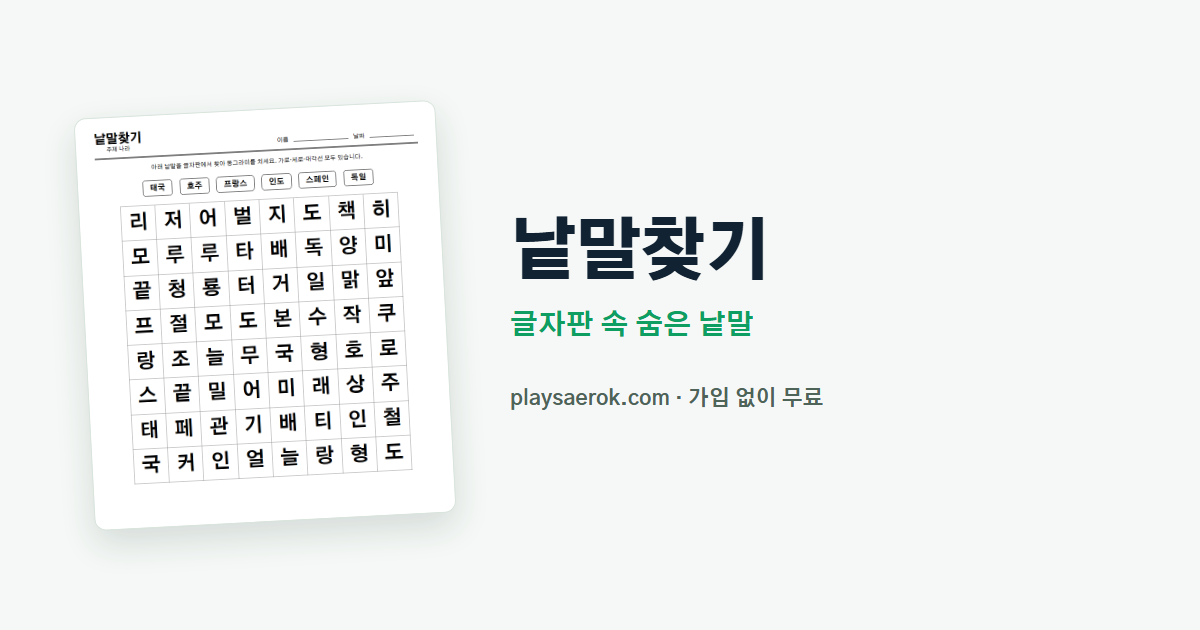
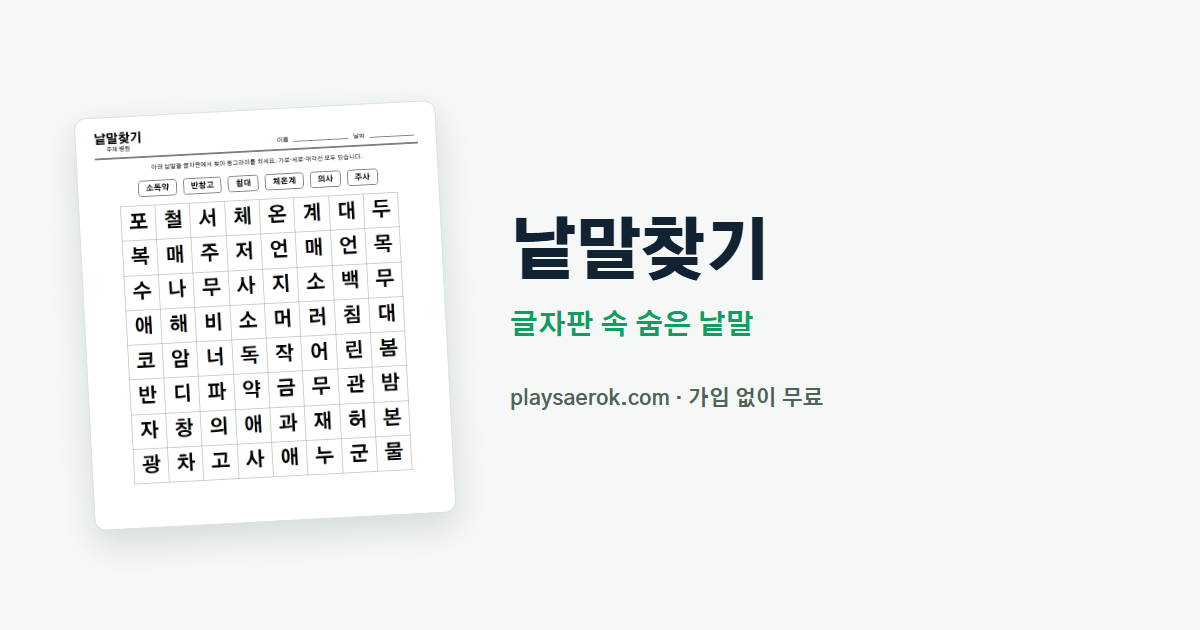
낱말찾기 주제를 12 → 30개로 (낱말 168 → 420개)
주제가 열둘뿐이라 열두 판이면 한 바퀴였다. 이제 서른 판이다.

보탠 주제 — 새 · 바다 먹거리 · 나무 · 부엌 살림 · 옷 · 탈것 ·
동네 · 학교 · 병원 · 시장 · 날씨 · 색깔 · 때 · 식구 · 나물 ·
국과 찌개 · 문방구 · 산과 강

- 주제마다 낱말 14개, 세 글자 이하를 여섯 개 넘게 두어
  1·2단계의 작은 글자판에도 들어가게 했다.
- 짧은 낱말이 긴 낱말 안에 들어 있으면(아버지/할아버지, 연필/색연필)
  긴 낱말에서 짧은 것을 찾아 버릴 수 있으므로 모두 골라내 바꿨다.
- 다섯 단계로 판을 1,000번 만들어 낱말이 다 들어가는지 확인했다 (실패 0).

Changed region(s): [[0.0925, 0.2714, 0.3392, 0.754]]

diff --git a/js/data/words.js b/js/data/words.js
@@ -13,7 +13,25 @@ window.WORD_THEMES = [
   { id: 'season', name: '절기와 명절', words: ['설날', '추석', '단오', '동지', '한식', '대보름', '입춘', '하지', '복날', '섣달', '초여름', '늦가을', '한겨울', '봄나들이'] },
   { id: 'play', name: '놀이', words: ['윷놀이', '널뛰기', '씨름', '연날리기', '제기차기', '공기놀이', '숨바꼭질', '그네뛰기', '팽이치기', '줄넘기', '딱지치기', '강강술래', '장기', '바둑'] },
   { id: 'country', name: '나라', words: ['대한민국', '일본', '중국', '미국', '프랑스', '독일', '영국', '호주', '캐나다', '이탈리아', '스페인', '인도', '태국', '베트남'] },
-  { id: 'job', name: '직업', words: ['선생님', '의사', '간호사', '농부', '어부', '요리사', '운전기사', '우체부', '경찰관', '소방관', '미용사', '목수', '화가', '가수'] }
+  { id: 'job', name: '직업', words: ['선생님', '의사', '간호사', '농부', '어부', '요리사', '운전기사', '우체부', '경찰관', '소방관', '미용사', '목수', '화가', '가수'] },
+  { id: 'bird', name: '새', words: ['참새', '까치', '제비', '백로', '원앙', '장끼', '비둘기', '부엉이', '기러기', '까마귀', '종달새', '두루미', '뻐꾸기', '딱따구리'] },
+  { id: 'sea', name: '바다 먹거리', words: ['갈치', '명태', '조기', '붕어', '잉어', '멸치', '문어', '새우', '조개', '낙지', '고등어', '오징어', '가자미', '미꾸라지'] },
+  { id: 'tree', name: '나무', words: ['소나무', '대나무', '감나무', '밤나무', '참나무', '향나무', '잣나무', '은행나무', '느티나무', '버드나무', '대추나무', '매화나무', '살구나무', '단풍나무'] },
+  { id: 'kitchen', name: '부엌 살림', words: ['냄비', '국자', '채반', '도마', '밥솥', '주걱', '접시', '대접', '절구', '가마솥', '소쿠리', '항아리', '뒤집개', '프라이팬'] },
+  { id: 'cloth', name: '옷', words: ['치마', '바지', '조끼', '외투', '장갑', '양말', '버선', '한복', '셔츠', '잠옷', '저고리', '목도리', '스웨터', '두루마기'] },
+  { id: 'ride', name: '탈것', words: ['버스', '기차', '트럭', '택시', '마차', '자전거', '자동차', '지하철', '비행기', '여객선', '경운기', '달구지', '오토바이', '케이블카'] },
+  { id: 'village', name: '동네', words: ['정자', '장터', '논밭', '다리', '우물', '우체국', '파출소', '보건소', '이발소', '목욕탕', '방앗간', '정미소', '대장간', '서낭당'] },
+  { id: 'school', name: '학교', words: ['교실', '칠판', '분필', '책상', '걸상', '교문', '필통', '공책', '연필', '운동장', '도서관', '급식실', '지우개', '종소리'] },
+  { id: 'clinic', name: '병원', words: ['의사', '주사', '붕대', '침대', '링거', '간호사', '청진기', '소독약', '체온계', '진료실', '접수처', '처방전', '반창고', '약봉지'] },
+  { id: 'market', name: '시장', words: ['좌판', '저울', '흥정', '단골', '젓갈', '나물', '떡집', '어물전', '포목점', '잡화점', '국밥집', '손수레', '참기름', '장바구니'] },
+  { id: 'weather', name: '날씨', words: ['맑음', '흐림', '서리', '안개', '우박', '태풍', '폭염', '한파', '소나기', '장맛비', '눈보라', '무더위', '봄바람', '가랑비'] },
+  { id: 'color', name: '색깔', words: ['빨강', '노랑', '파랑', '초록', '주황', '보라', '분홍', '갈색', '회색', '검정', '하양', '남색', '연두', '하늘색'] },
+  { id: 'time', name: '때', words: ['새벽', '아침', '점심', '저녁', '한밤', '정오', '자정', '어제', '오늘', '내일', '모레', '그제', '주말', '평일'] },
+  { id: 'family', name: '식구', words: ['아들', '사위', '손자', '손녀', '이모', '고모', '조카', '사촌', '처남', '며느리', '할머니', '외삼촌', '어머니', '할아버지'] },
+  { id: 'namul', name: '나물', words: ['냉이', '달래', '쑥갓', '부추', '숙주', '고사리', '도라지', '시금치', '취나물', '참나물', '미나리', '콩나물', '무나물', '시래기'] },
+  { id: 'soup', name: '국과 찌개', words: ['떡국', '미역국', '된장국', '김칫국', '만둣국', '육개장', '삼계탕', '추어탕', '설렁탕', '갈비탕', '순두부', '청국장', '콩나물국', '부대찌개'] },
+  { id: 'stationery', name: '문방구', words: ['연필', '공책', '물감', '가위', '필통', '볼펜', '도장', '봉투', '지우개', '스케치북', '형광펜', '편지지', '만년필', '크레파스'] },
+  { id: 'land', name: '산과 강', words: ['한강', '동해', '서해', '남해', '백두산', '한라산', '설악산', '지리산', '북한산', '금강산', '낙동강', '압록강', '두만강', '섬진강'] }
 ];
 
 /* 빈칸을 메울 글자 모음 — 실제 낱말처럼 보이는 흔한 글자들로 골랐다 */
